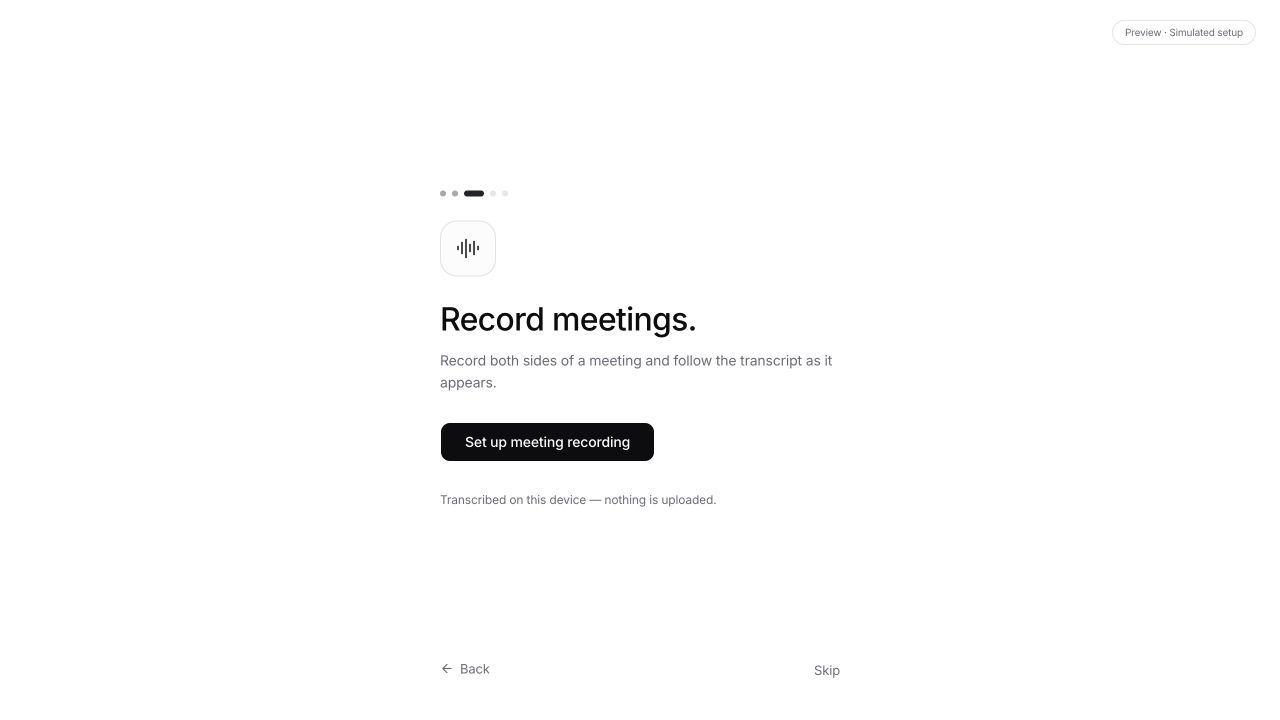
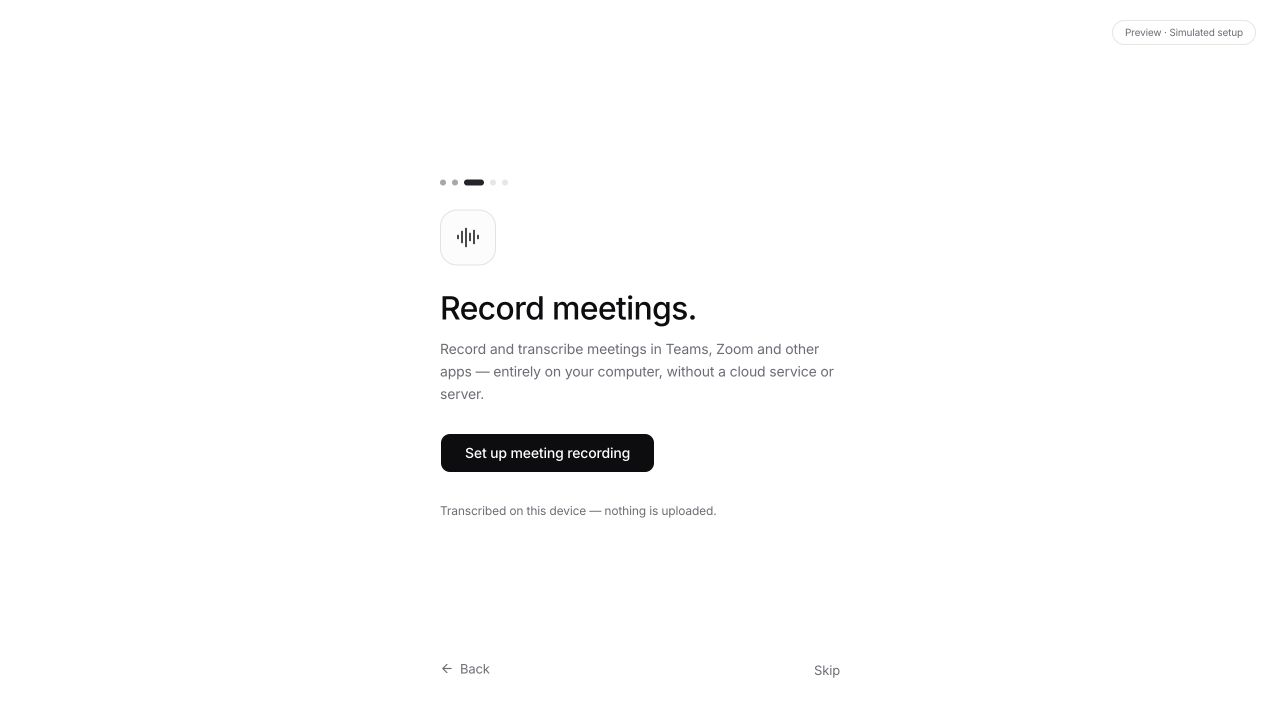
fix(onboarding): describe fully local meeting recording

diff --git a/apps/app/src/i18n/locales/de.ts b/apps/app/src/i18n/locales/de.ts
@@ -4718,7 +4718,7 @@ const de = {
   "onboarding_audio.setup_ready": "Einsatzbereit",
   "onboarding_audio.setup_progress": "Fortschritt der Einrichtung",
   "onboarding_audio.finish_later": "Später fertigstellen",
-  "onboarding_audio.meeting_intro": "Nehmen Sie beide Seiten eines Gesprächs auf und lesen Sie das Transkript live mit.",
+  "onboarding_audio.meeting_intro": "Meetings in Teams, Zoom und anderen Apps aufnehmen und transkribieren. Vollständig auf Ihrem Computer, ohne Cloud oder Server.",
   "onboarding_audio.mic_access_title": "Damit LegalWork Sie hört.",
   "onboarding_audio.mic_access_description": "Erlauben Sie den Mikrofonzugriff, um Ihre Stimme aufzunehmen.",
   "onboarding_audio.system_access_title": "Die andere Seite aufnehmen.",

diff --git a/apps/app/src/i18n/locales/en.ts b/apps/app/src/i18n/locales/en.ts
@@ -4439,7 +4439,7 @@ export default {
   "onboarding_audio.setup_ready": "Ready to use",
   "onboarding_audio.setup_progress": "Setup progress",
   "onboarding_audio.finish_later": "Finish later",
-  "onboarding_audio.meeting_intro": "Record both sides of a meeting and follow the transcript as it appears.",
+  "onboarding_audio.meeting_intro": "Record and transcribe meetings in Teams, Zoom and other apps — entirely on your computer, without a cloud service or server.",
   "onboarding_audio.mic_access_title": "Let LegalWork hear you.",
   "onboarding_audio.mic_access_description": "Allow microphone access to capture your voice.",
   "onboarding_audio.system_access_title": "Capture the other side.",
